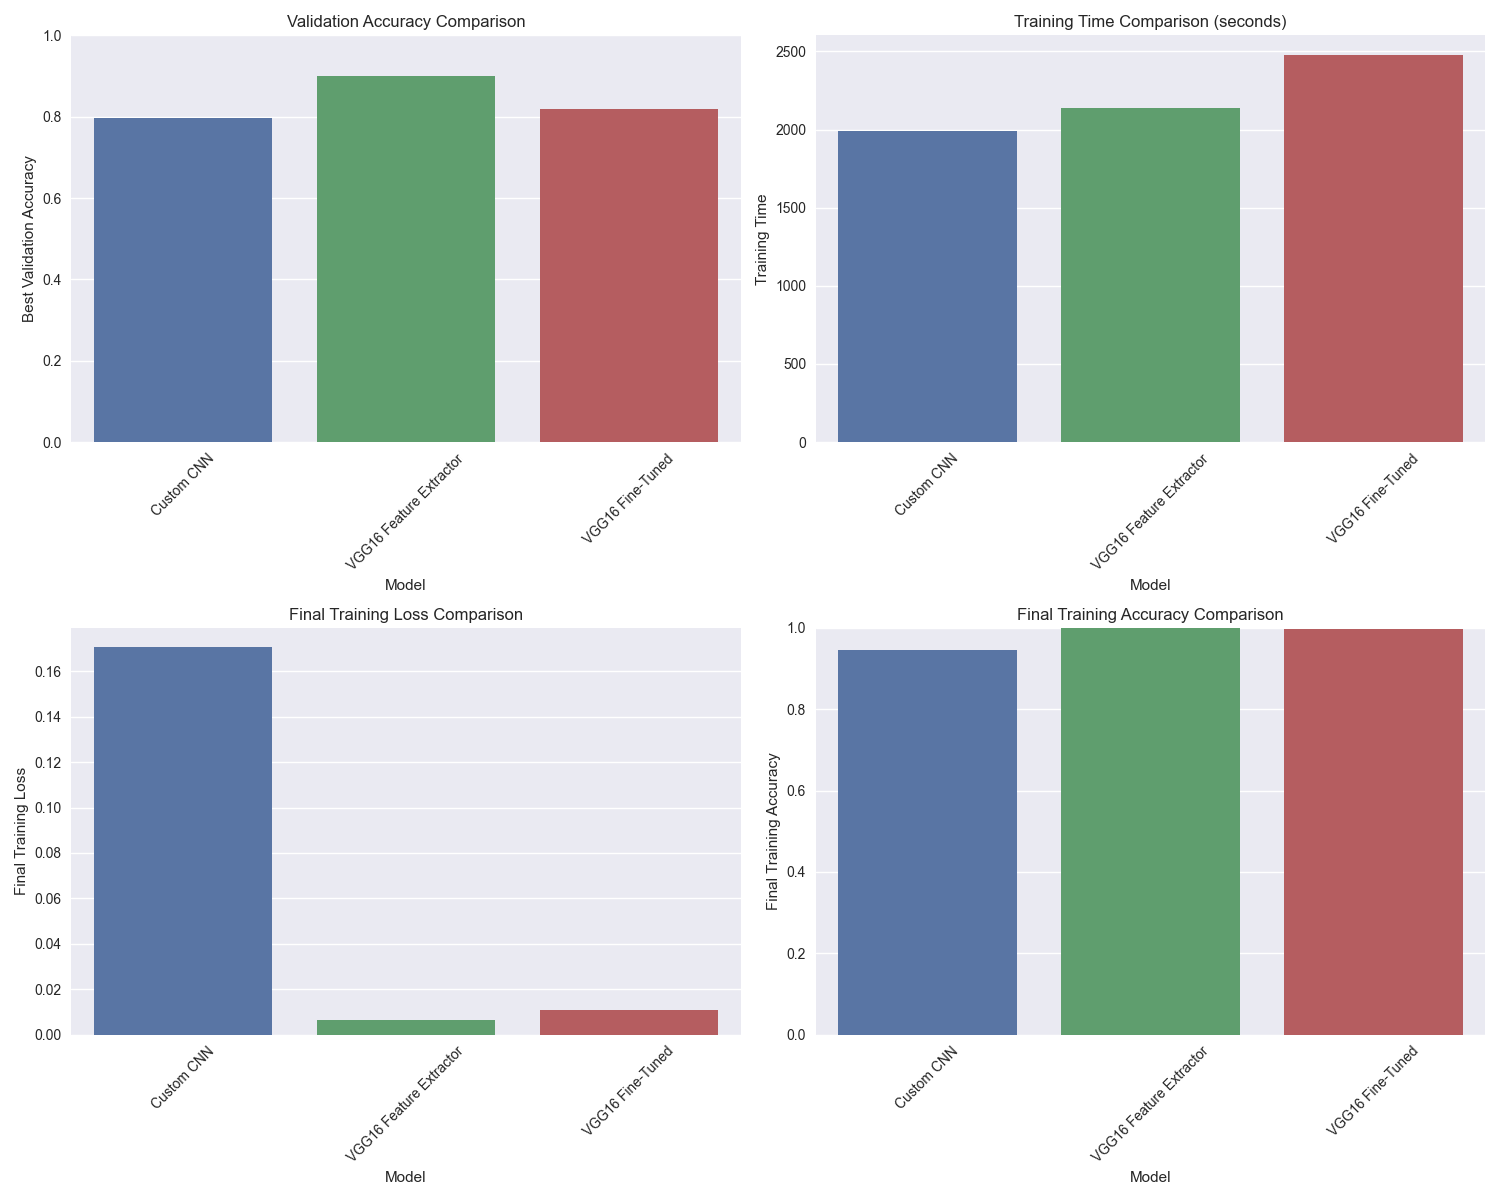
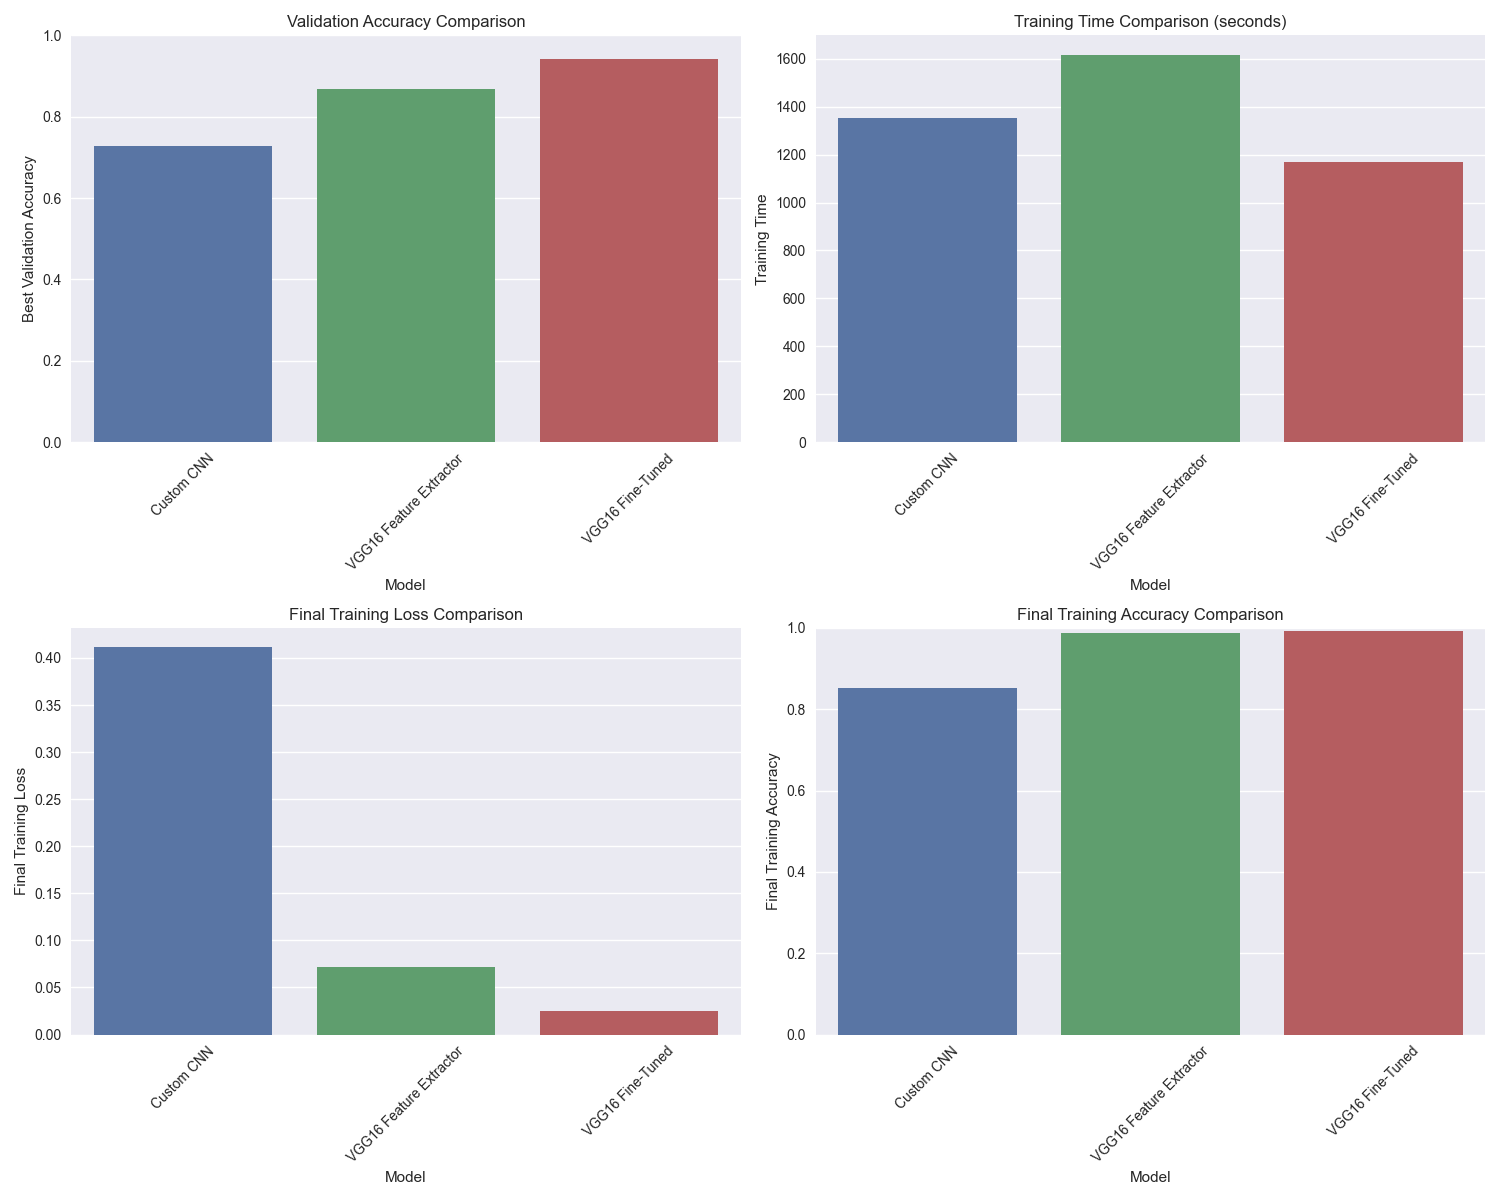
changes metrics

diff --git a/output/metrics/model_comparison.md b/output/metrics/model_comparison.md
@@ -2,6 +2,6 @@
 
 | Model | Training Time (s) | Best Val Acc | Train Loss | Train Acc | Val Loss | Val Acc |
 |-------|-----------------|-------------|-----------|----------|----------|--------|
-| Custom CNN | 1989.26 | 0.7964 | 0.1706 | 0.9454 | 0.6603 | 0.7964 |
-| VGG16 Feature Extractor | 2138.43 | 0.9000 | 0.0066 | 0.9991 | 0.8171 | 0.8964 |
-| VGG16 Fine-Tuned | 2478.61 | 0.8182 | 0.0108 | 0.9968 | 1.2610 | 0.8145 |
+| Custom CNN | 1353.43 | 0.7273 | 0.4114 | 0.8525 | 1.0994 | 0.6545 |
+| VGG16 Feature Extractor | 1616.69 | 0.8691 | 0.0720 | 0.9863 | 0.3631 | 0.8673 |
+| VGG16 Fine-Tuned | 1167.18 | 0.9418 | 0.0246 | 0.9927 | 0.2727 | 0.9418 |
